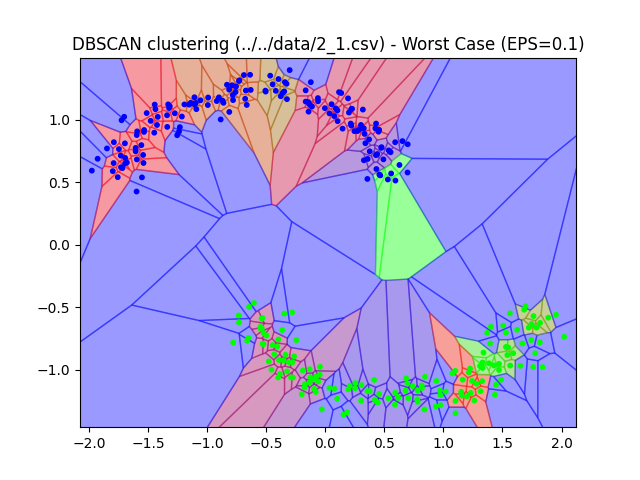
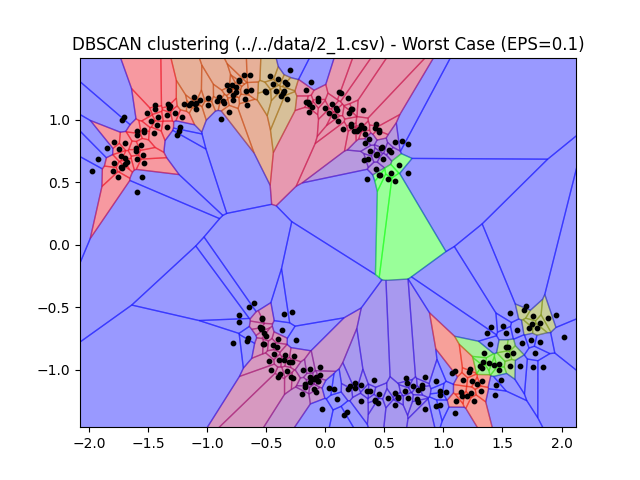
fixed experiment 1 to generate y_pred and not y_true like in the second experiment

Changed region(s): [[0.3438, 0.625, 0.875, 0.875], [0.125, 0.125, 0.6562, 0.4062], [0.875, 0.6875, 0.9062, 0.7188]]

diff --git a/Project1/K-MEANS/1_eksperyment/Wygenerowane_zbiory.py b/Project1/K-MEANS/1_eksperyment/Wygenerowane_zbiory.py
@@ -16,10 +16,6 @@ from Project1.main import load_generated_datasets
 """
 
 
-def perform_clustering_experiments(dataset, dataset_name):
-    kmeans_experiment(dataset, dataset_name)
-
-
 # Eksperyment z algorytmem K-MEANS
 def kmeans_experiment(X, dataset_name):
     silhouette_scores = []
@@ -44,18 +40,18 @@ def kmeans_experiment(X, dataset_name):
     worst_cluster_index = silhouette_scores.index(min(silhouette_scores))
 
     # Visualizing for the best and worst using VORONOI
-    plot_voronoi_diagram(X[:, :2], X[:, -1],  cluster_range[best_cluster_index], dataset_name, 'Best case')
-    plot_voronoi_diagram(X[:, :2], X[:, -1],  cluster_range[worst_cluster_index], dataset_name, 'Worst case')
+    plot_voronoi_diagram(X[:, :2],   cluster_range[best_cluster_index], dataset_name, 'Best case')
+    plot_voronoi_diagram(X[:, :2],   cluster_range[worst_cluster_index], dataset_name, 'Worst case')
 
 
-def plot_voronoi_diagram(X: ndarray, y_true: ndarray, n_clusters: int, dataset_name: str, case: str):
+def plot_voronoi_diagram(X: ndarray, n_clusters: int, dataset_name: str, case: str):
     kmeans = KMeans(n_clusters=n_clusters)
     kmeans.fit(X)
 
     y_pred = kmeans.labels_
 
     fig, ax = plt.subplots()
-    util.plot_voronoi_diagram(X, y_true, y_pred, ax=ax)
+    util.plot_voronoi_diagram(X, None, y_pred, ax=ax)  # Passing None for y_true
 
     plt.title(f'K-means clustering ({dataset_name}) - {case}')
     plt.show()
@@ -64,5 +60,10 @@ def plot_voronoi_diagram(X: ndarray, y_true: ndarray, n_clusters: int, dataset_n
 if __name__ == "__main__":
     datasets = load_generated_datasets()
 
-    for X, dataset_name in datasets[:1]:
-        perform_clustering_experiments(X, dataset_name)
+    # for X, dataset_name in datasets:
+    #     kmeans_experiment(X, dataset_name)
+
+    for index, (X, dataset_name) in enumerate(datasets):
+        if index == 5:  # Select the 6th file (index 5)
+            kmeans_experiment(X, dataset_name)
+            break  # Exit the loop after processing the 6th file

diff --git a/Project1/DBSCAN/1_eksperyment/Wygenerowane_zbiory.py b/Project1/DBSCAN/1_eksperyment/Wygenerowane_zbiory.py
@@ -68,18 +68,18 @@ def dbscan_experiment(X, dataset_name):
     worst_eps_index = silhouette_scores.index(min(silhouette_scores))
 
     # Plot Voronoi diagram for best and worst cases
-    plot_voronoi_diagram(X[:, :2], X[:, -1],  eps_range[best_eps_index], dataset_name, 'Best Case')
-    plot_voronoi_diagram(X[:, :2], X[:, -1],  eps_range[worst_eps_index], dataset_name, 'Worst Case')
+    plot_voronoi_diagram(X[:, :2], eps_range[best_eps_index], dataset_name, 'Best Case')
+    plot_voronoi_diagram(X[:, :2], eps_range[worst_eps_index], dataset_name, 'Worst Case')
 
 
-def plot_voronoi_diagram(X: ndarray, y_true: ndarray, eps: float, dataset_name: str, case: str):
+def plot_voronoi_diagram(X: ndarray, eps: float, dataset_name: str, case: str):
     dbscan = DBSCAN(eps=eps)
     dbscan.fit(X)
 
     y_pred = dbscan.labels_
 
     fig, ax = plt.subplots()
-    util.plot_voronoi_diagram(X, y_true, y_pred, ax=ax)
+    util.plot_voronoi_diagram(X, None, y_pred, ax=ax)
 
     plt.title(f'DBSCAN clustering ({dataset_name}) - {case} (EPS={eps})')
     plt.show()
